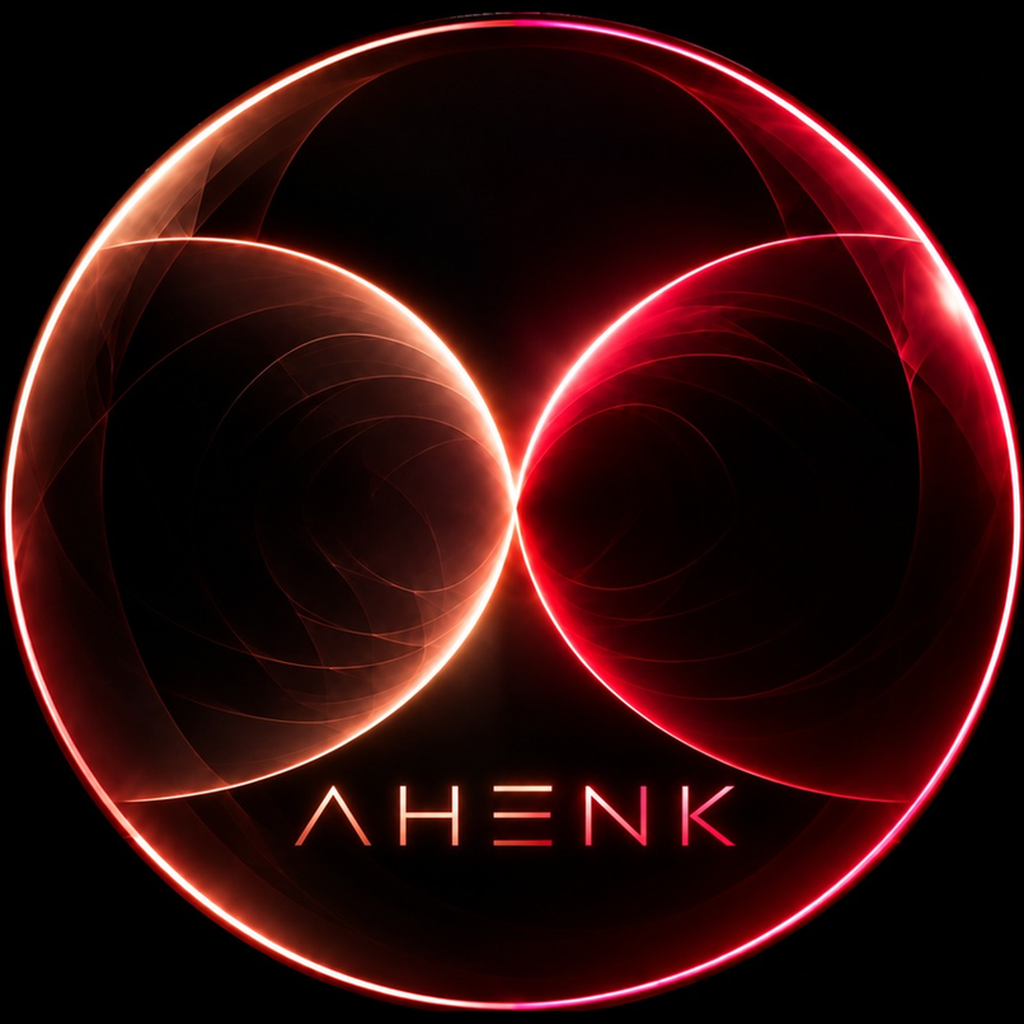
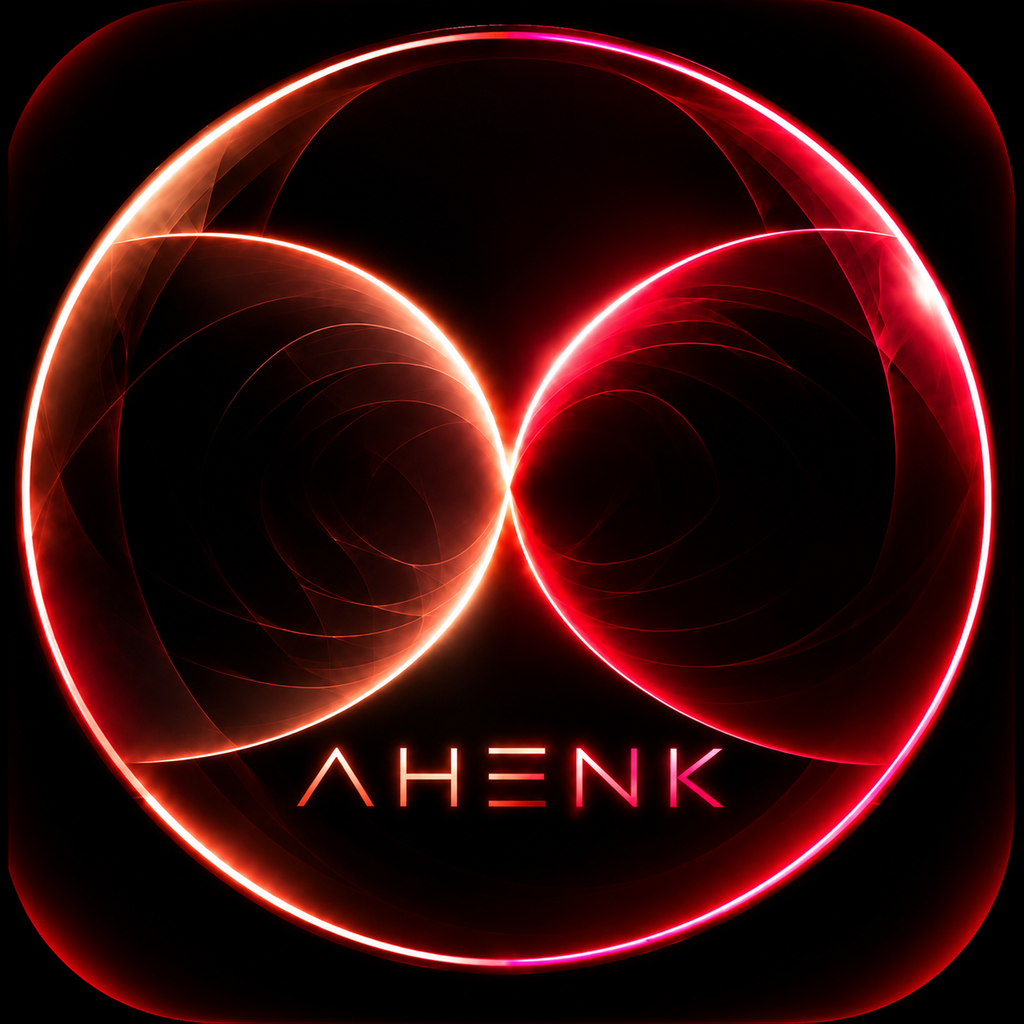
Mobil: yeni uygulama simgesi; acilis logosu yerel acilis ekraniyla ayni boy/yer; Hesabimi Sil penceresi opak, Hesabi Sil (kirmizi, siyah nokta) / Vazgec (yesil, beyaz nokta) gecisli butonlar; giris/kayit/sifre ekranlari M. sifremi unuttum arka plani. Web: ayni Hesabi Sil / Vazgec butonlari

diff --git a/apps/mobile/components/profil/ProfilimTab.tsx b/apps/mobile/components/profil/ProfilimTab.tsx
@@ -5,7 +5,7 @@ import { useReduceMotion } from '@/lib/motion';
 import { api } from '@/lib/api';
 import { gColor } from '@/lib/masa';
 import { useMasaTabs } from '@/lib/useMasaTabs';
-import { Btn, BtnGhost, BtnPrimary, Card, Head, Input, ModalBox, Row, Sheet, Switch, T } from '../ui';
+import { Btn, BtnGhost, BtnPrimary, BtnTone, Card, Head, Input, ModalBox, Row, Sheet, Switch, T } from '../ui';
 import { getShakeEnabled, setShakeEnabled } from '@/lib/shakePref';
 import { OtpInput } from '../OtpInput';
 import { KankaSection } from './KankaSection';
@@ -384,14 +384,14 @@ export function ProfilimTab({ user, cities, onLoggedOut, onAdmin }: { user: User
           : <BtnGhost label="Hesabımı Sil" redDot style={accountBtn.box} textStyle={[accountBtn.text, { color: tw.primaryHover }]} onPress={() => { setDeleteError(''); setDeleteOpen(true); }} />}
       </View>
 
-      <ModalBox visible={deleteOpen} onClose={() => setDeleteOpen(false)} title="Hesabımı Sil">
+      <ModalBox visible={deleteOpen} onClose={() => setDeleteOpen(false)} title="Hesabımı Sil" opaque>
         <T style={{ fontSize: 14, color: ll.text2, lineHeight: 22.75 }}>
           Hesabını silmek üzeresin. Bu işlem geri alınamaz. Talebin onaylandıktan sonra hesabın en geç 48 saat içinde kalıcı olarak silinir. Profilin, kişilik testi sonuçların, kimlik doğrulama bilgilerin ve masa geçmişin sistemden kaldırılır. Kullanılmamış paket hakların iade edilmez ve kullanılamaz hâle gelir. Yasal zorunluluk gereği ödeme ve fatura kayıtların mevzuatta belirtilen süre boyunca saklanır.
         </T>
         {!!deleteError && <T style={{ color: tw.accent, fontSize: 14, marginTop: 12 }}>{deleteError}</T>}
         <View style={{ marginTop: 20, gap: 12 }}>
-          <BtnPrimary label={deleteBusy ? 'Gönderiliyor…' : 'Onaylıyorum'} style={{ width: '72%', alignSelf: 'center' }} disabled={deleteBusy} onPress={confirmDelete} />
-          <BtnGhost label="Vazgeç" style={{ width: '72%', alignSelf: 'center' }} onPress={() => setDeleteOpen(false)} />
+          <BtnTone tone="danger" label={deleteBusy ? 'Gönderiliyor…' : 'Hesabı Sil'} style={{ width: '72%', alignSelf: 'center' }} disabled={deleteBusy} onPress={confirmDelete} />
+          <BtnTone tone="safe" label="Vazgeç" style={{ width: '72%', alignSelf: 'center' }} onPress={() => setDeleteOpen(false)} />
         </View>
       </ModalBox>
     </View>

diff --git a/apps/mobile/components/ui.tsx b/apps/mobile/components/ui.tsx
@@ -11,7 +11,7 @@ import Svg, { Defs, Ellipse, RadialGradient as SvgRadial, Rect as SvgRect, Stop 
 import { useSafeAreaInsets } from 'react-native-safe-area-context';
 import {
   btn, toggleSwitch, type BtnVariant,
-  btnGhost, btnPrimary, c, fonts, glassCard, inputGlass, ll, llCard, llCta, llEyebrow, llHead, llNote, llTitle, mono, sans, sheet, tw, webLineHeight, liveGlow,
+  btnGhost, btnPrimary, btnTone, c, fonts, glassCard, inputGlass, ll, llCard, llCta, llEyebrow, llHead, llNote, llTitle, mono, sans, sheet, tw, webLineHeight, liveGlow,
 } from '@/theme/theme';
 
 // Web satır yüksekliği: stilde lineHeight yoksa üye tarafında Tailwind boyutları için sınıf değeri, diğer boyutlarda 1.5×;
@@ -88,6 +88,20 @@ export function BtnGhost({ label, style, full, disabled, redDot, textStyle, noUp
       style={({ pressed }) => [s.btn, s.btnGhost, full && s.full, pressed && !disabled && { backgroundColor: 'rgba(255,255,255,0.05)' }, disabled && { opacity: btnGhost.disabledOpacity }, style]}>
       <View style={[s.dot, { backgroundColor: redDot ? c.ghostRedDot : btnGhost.dotColor }]} />
       <Text style={withWebLH([s.btnText, { fontFamily: sans(500), color: btnGhost.color }, textStyle])}>{noUpper ? label : label.toLocaleUpperCase('tr-TR')}</Text>
+    </Pressable>
+  );
+}
+
+// .btn-primary + .btn-tone-danger / .btn-tone-safe: geçişli dolgu, renkli gölge, nokta rengi tona göre
+export function BtnTone({ tone, label, style, full, disabled, textStyle, noUpper, ...rest }: BtnProps & { tone: 'danger' | 'safe' }) {
+  const t = btnTone[tone];
+  return (
+    <Pressable hitSlop={HIT} disabled={disabled} accessibilityRole="button" {...rest}
+      style={({ pressed }) => [{ borderRadius: btnPrimary.radius, alignSelf: 'flex-start', shadowColor: t.glow, shadowOpacity: 0.55, shadowRadius: 10, shadowOffset: { width: 0, height: 4 }, elevation: 6 }, full && s.full, pressed && !disabled && { opacity: 0.85 }, disabled && { opacity: btnPrimary.disabledOpacity }, style]}>
+      <LinearGradient colors={[...t.colors]} start={{ x: 0, y: 0 }} end={{ x: 0, y: 1 }} style={[s.btn, { alignSelf: 'stretch', borderColor: t.border }]}>
+        <View style={[s.dot, { backgroundColor: t.dot }]} />
+        <Text style={withWebLH([s.btnText, { fontFamily: sans(600), color: c.white }, textStyle])}>{noUpper ? label : label.toLocaleUpperCase('tr-TR')}</Text>
+      </LinearGradient>
     </Pressable>
   );
 }

diff --git a/apps/mobile/app/kayit.tsx b/apps/mobile/app/kayit.tsx
@@ -17,7 +17,7 @@ import { OtpInput } from '@/components/OtpInput';
 import { DateField, FieldLabel, ListPicker } from '@/components/Pickers';
 import { TestFlow, type Question } from '@/components/TestFlow';
 import { ContactPicker, normalizeTrPhone } from '@/components/profil/RehberTab';
-import { Btn, BtnGhost, BtnPrimary, Card, ErrorText, Eyebrow, Input, Serif, Spinner, T, Title, PageGlow } from '@/components/ui';
+import { Btn, BtnGhost, BtnPrimary, Card, ErrorText, Eyebrow, Input, Serif, Spinner, T, Title, Glow } from '@/components/ui';
 import { c, ll, tw, tw4 } from '@/theme/theme';
 
 interface City { id: string; name: string }
@@ -152,10 +152,10 @@ export default function Kayit() {
   const field = (label: string, el: React.ReactNode) => <View><FieldLabel>{label}</FieldLabel>{el}</View>;
 
   return (
-    <KeyboardAvoidingView style={{ flex: 1, backgroundColor: ll.bg }} behavior="padding">
+    <KeyboardAvoidingView style={{ flex: 1, backgroundColor: ll.bg, overflow: 'hidden' }} behavior="padding">
       <WelcomeOverlay visible={success} name={`${f.firstName} ${f.lastName}`} />
-      {/* web: top -5%, ortada, 80vw × 60vw, rgba(192,57,43,.08) → şeffaf %60 */}
-      <PageGlow top={-0.05} left={0.5} w={0.8} h={0.6} color="rgb(192,57,43)" opacity={0.08} stop={0.6} />
+      {/* Arka plan: M. şifremi unuttum ekranındaki sağ üst kırmızımsı ışıma (Glow) */}
+      <Glow />
       <ScrollView {...kb} keyboardShouldPersistTaps="handled" keyboardDismissMode="on-drag" contentContainerStyle={{ paddingTop: insets.top + 40, paddingBottom: insets.bottom + 40, paddingHorizontal: 20, maxWidth: 576, width: '100%', alignSelf: 'center' }}>
         <View style={{ alignItems: 'center', marginBottom: 32 }}>
           <Image source={require('@/assets/start_logo.jpg')} style={{ width: 120, height: 120, borderRadius: 60 }} />

diff --git a/apps/mobile/components/AuthShell.tsx b/apps/mobile/components/AuthShell.tsx
@@ -3,7 +3,7 @@ import React, { useState } from 'react';
 import { Image, KeyboardAvoidingView, Pressable, ScrollView, View } from 'react-native';
 import { useSafeAreaInsets } from 'react-native-safe-area-context';
 import Svg, { Circle, Path } from 'react-native-svg';
-import { Btn, Input, PageGlow, T, Title } from './ui';
+import { Btn, Glow, Input, T, Title } from './ui';
 import { ll, sans } from '@/theme/theme';
 import { useKeyboardFieldScroll } from '@/lib/useKeyboardFieldScroll';
 
@@ -12,9 +12,9 @@ export function AuthShell({ title, subtitle, brandLogo, children }: { title?: st
   const insets = useSafeAreaInsets();
   const kb = useKeyboardFieldScroll();
   return (
-    <KeyboardAvoidingView style={{ flex: 1, backgroundColor: ll.bg }} behavior="padding">
-      {/* web: top -10%, ortada, 70vw, rgba(192,57,43,.09) → şeffaf %60 */}
-      <PageGlow top={-0.1} left={0.5} w={0.7} h={0.7} color="rgb(192,57,43)" opacity={0.09} stop={0.6} />
+    <KeyboardAvoidingView style={{ flex: 1, backgroundColor: ll.bg, overflow: 'hidden' }} behavior="padding">
+      {/* Arka plan: M. şifremi unuttum ekranındaki sağ üst kırmızımsı ışıma (Glow) */}
+      <Glow />
       <ScrollView {...kb} keyboardShouldPersistTaps="handled" keyboardDismissMode="on-drag" contentContainerStyle={{ flexGrow: 1, justifyContent: 'center', paddingHorizontal: 24, paddingTop: insets.top + 24, paddingBottom: insets.bottom + 24 }}>
         <View style={{ width: '100%', maxWidth: 384, alignSelf: 'center' }}>
           <View style={{ marginBottom: 32, alignItems: 'center' }}>

diff --git a/apps/web/app/globals.css b/apps/web/app/globals.css
@@ -125,6 +125,24 @@ body {
   cursor: not-allowed;
 }
 
+/* Hesabı Sil (kırmızı) / Vazgeç (yeşil): .btn-primary ile birlikte; geçişli dolgu, üst ışık çizgisi, hafif renkli gölge */
+.btn-primary.btn-tone-danger {
+  background: linear-gradient(180deg, #d6453a 0%, #9e2219 100%);
+  border-color: rgba(255, 140, 128, 0.45);
+  box-shadow: inset 0 1px 0 rgba(255, 255, 255, 0.18), 0 6px 18px -6px rgba(192, 57, 43, 0.7);
+}
+.btn-primary.btn-tone-danger::before { background: #000000; }
+.btn-primary.btn-tone-danger:hover:not(:disabled) { background: linear-gradient(180deg, #e0544a 0%, #a8281f 100%); border-color: rgba(255, 160, 150, 0.55); }
+.btn-primary.btn-tone-danger:active:not(:disabled) { background: linear-gradient(180deg, #c03a30 0%, #8a1d15 100%); }
+.btn-primary.btn-tone-safe {
+  background: linear-gradient(180deg, #2fa564 0%, #17663d 100%);
+  border-color: rgba(140, 235, 175, 0.4);
+  box-shadow: inset 0 1px 0 rgba(255, 255, 255, 0.18), 0 6px 18px -6px rgba(34, 163, 90, 0.6);
+}
+.btn-primary.btn-tone-safe::before { background: #ffffff; }
+.btn-primary.btn-tone-safe:hover:not(:disabled) { background: linear-gradient(180deg, #38b06d 0%, #1b7145 100%); border-color: rgba(160, 245, 190, 0.5); }
+.btn-primary.btn-tone-safe:active:not(:disabled) { background: linear-gradient(180deg, #279356 0%, #135a35 100%); }
+
 /* ── Ghost Buton — Secondary ─────────────────────────── */
 .btn-ghost {
   display: inline-flex;

diff --git a/apps/mobile/app/index.tsx b/apps/mobile/app/index.tsx
@@ -67,8 +67,9 @@ export default function Acilis() {
   const rotate = spin.interpolate({ inputRange: [0, 1], outputRange: ['0deg', '360deg'] });
   return (
     <View style={{ flex: 1, backgroundColor: '#000000', overflow: 'hidden', alignItems: 'center', justifyContent: 'center', paddingHorizontal: 24 }}>
-      <Animated.View style={{ marginBottom: 32, transform: [{ rotate }] }}>
-        <Image source={require('@/assets/start_logo.jpg')} style={{ width: 184, height: 184, borderRadius: 92 }} />
+      {/* Yerel açılış ekranıyla (app.json expo-splash-screen imageWidth 160, ekran ortası) aynı boy ve aynı yer */}
+      <Animated.View style={{ transform: [{ rotate }] }}>
+        <Image source={require('@/assets/start_logo.jpg')} style={{ width: 160, height: 160, borderRadius: 80 }} />
       </Animated.View>
       {/* Yazı tipleri yüklenene kadar (birkaç ms) yer tutulur, yazı görünmez; yüklenmemiş yazı tipi adı kullanılmaz */}
       <Text style={{ position: 'absolute', left: 24, right: 24, bottom: insets.bottom + 16, color: tw.text, fontSize: 12, lineHeight: 18, textAlign: 'center', opacity: fontsReady ? 1 : 0, ...(fontsReady ? { fontFamily: sans(400) } : null) }}>

diff --git a/apps/web/app/profil/tabs/TabProfilim.tsx b/apps/web/app/profil/tabs/TabProfilim.tsx
@@ -696,10 +696,10 @@ export function TabProfilim({ user, onGoKyc, cities, activePlan }: Props) {
         </p>
         {deleteError && <p className="text-[#ff6b6b] text-sm mt-3">{deleteError}</p>}
         <div className="mt-5 flex flex-col gap-3">
-          <button type="button" onClick={confirmDelete} disabled={deleteBusy} className="mx-auto block btn-primary disabled:opacity-40" style={{ width: '72%' }}>
-            {deleteBusy ? 'Gönderiliyor…' : 'Onaylıyorum'}
+          <button type="button" onClick={confirmDelete} disabled={deleteBusy} className="mx-auto block btn-primary btn-tone-danger disabled:opacity-40" style={{ width: '72%' }}>
+            {deleteBusy ? 'Gönderiliyor…' : 'Hesabı Sil'}
           </button>
-          <button type="button" onClick={() => setDeleteOpen(false)} className="mx-auto block btn-ghost" style={{ width: '72%' }}>
+          <button type="button" onClick={() => setDeleteOpen(false)} className="mx-auto block btn-primary btn-tone-safe" style={{ width: '72%' }}>
             Vazgeç
           </button>
         </div>

diff --git a/apps/mobile/theme/theme.ts b/apps/mobile/theme/theme.ts
@@ -166,6 +166,11 @@ export const btnGhost = {
   radius: 999, padV: 9, padH: 24, size: 11, letterSpacing: 0.14, border: 'rgba(255,255,255,0.14)', color: 'rgba(255,255,255,0.88)',
   dot: 4, dotColor: 'rgba(230,225,218,0.5)', gap: 8, disabledOpacity: 0.4,
 } as const;
+// Hesabı Sil (kırmızı) / Vazgeç (yeşil) butonları: web .btn-tone-danger / .btn-tone-safe
+export const btnTone = {
+  danger: { colors: ['#d6453a', '#9e2219'] as const, border: 'rgba(255,140,128,0.45)', dot: '#000000', glow: '#c0392b' },
+  safe: { colors: ['#2fa564', '#17663d'] as const, border: 'rgba(140,235,175,0.4)', dot: '#ffffff', glow: '#22a35a' },
+} as const;
 export const inputGlass = {
   bg: 'rgba(255,255,255,0.10)', border: 'rgba(255,255,255,0.10)', radius: 12, color: '#f5f5f5', placeholder: '#888888',
   focusBorder: 'rgba(192,57,43,0.6)', blur: 8,
